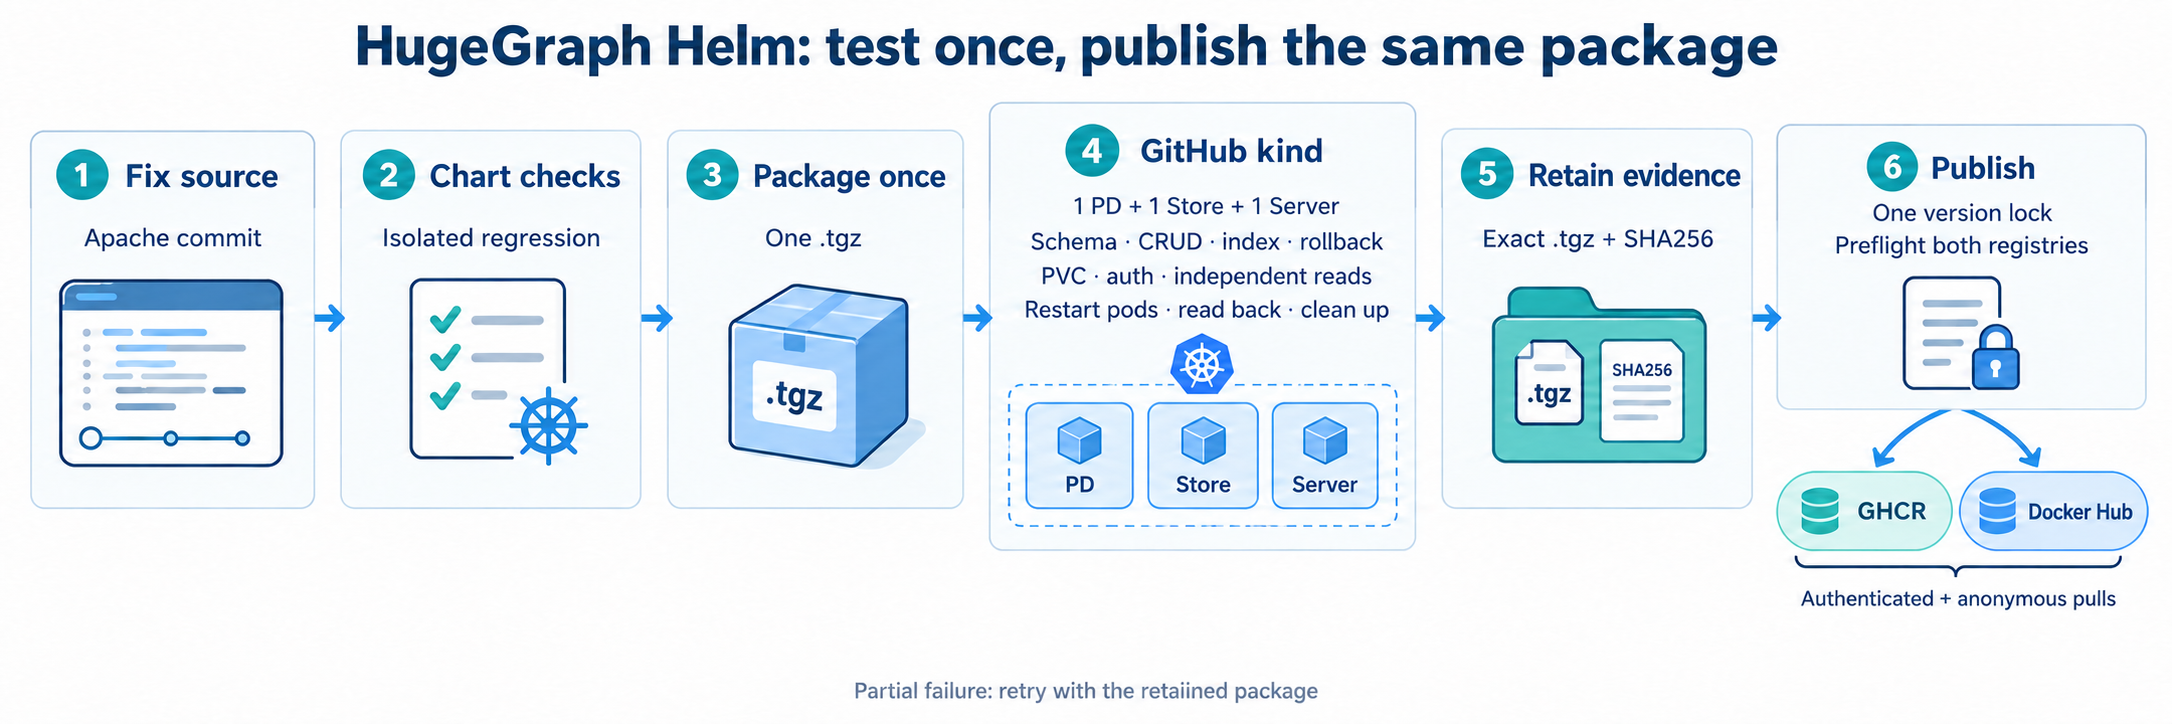
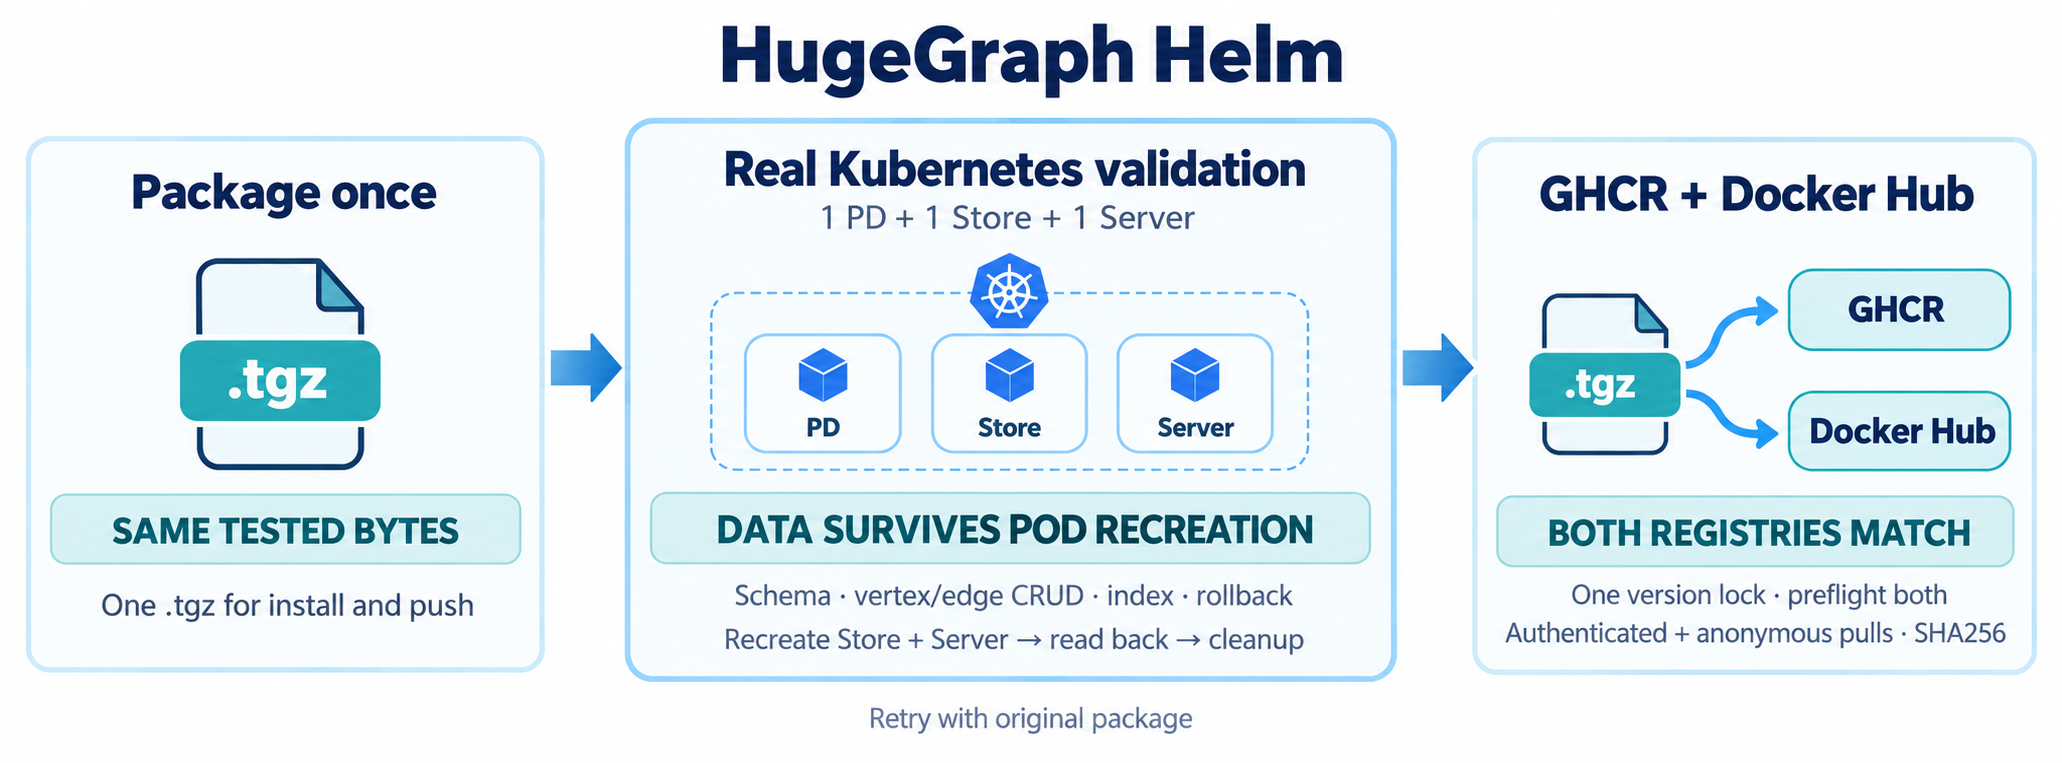
docs(helm): highlight core validation guarantees
- simplify the diagram to package, validate and publish
- emphasize exact artifact reuse and persisted data recovery
- show dual-registry preflight and pull verification

Changed region(s): [[0.0, 0.0304, 0.9932, 0.9116], [0.3104, 0.8508, 0.6828, 0.9724]]

diff --git a/.github/assets/helm-publishing-flow.prompt.md b/.github/assets/helm-publishing-flow.prompt.md
@@ -2,39 +2,53 @@
 
 Generated with the built-in image generation tool. Final asset: `helm-publishing-flow.png`.
 
-## Original prompt
+## Generation prompt
 
 ```text
 Use case: infographic-diagram
-Asset type: a generated illustration embedded in an open-source GitHub README.
-Primary request: Create a crisp, polished horizontal infographic explaining the actual HugeGraph Helm validation and publication pipeline. Wide landscape, about 3:1 aspect ratio, readable when embedded 1100 pixels wide. White or very light neutral background, dark navy typography, restrained teal and blue accents, simple line illustrations of source code, a chart package, Kubernetes pods, an evidence folder and two registry endpoints. Consistent clean spacing and arrows. No brand logos or watermarks.
-Composition: a left-to-right main flow with six numbered cards. Card 4 can be taller with compact test details. Card 6 branches into two equal destination pills but has a shared publisher card above the split. Include only the exact short text specified below, no extra prose.
-Text (verbatim):
-Title: "HugeGraph Helm: test once, publish the same package"
-Card 1 heading: "1  Fix source"
-Card 1 subtext: "Apache commit"
-Card 2 heading: "2  Chart checks"
-Card 2 subtext: "Isolated regression"
-Card 3 heading: "3  Package once"
-Card 3 subtext: "One .tgz"
-Card 4 heading: "4  GitHub kind"
-Card 4 subtext lines: "1 PD + 1 Store + 1 Server" / "Schema · CRUD · index · rollback" / "PVC · auth · independent reads" / "Restart pods · read back · clean up"
-Card 5 heading: "5  Retain evidence"
-Card 5 subtext: "Exact .tgz + SHA256"
-Card 6 heading: "6  Publish"
-Card 6 subtext lines: "One version lock" / "Preflight both registries"
-Destination pill 1: "GHCR"
-Destination pill 2: "Docker Hub"
-Shared text below destination pills: "Authenticated + anonymous pulls"
-Footer small note: "Partial failure: retry with the retained package"
-Accuracy constraints: Show a single immutable .tgz flowing through tests and publishing. Do not suggest high availability, a 3+3+3 topology, automatic rollback, or a shared atomic transaction between registries. The restart applies to Store and Server pods. The six cards must be legible and correctly ordered, with clearly connected arrows. Spell HugeGraph, SHA256 and GHCR exactly.
+Asset type: generated illustration for the HugeGraph open-source GitHub README.
+Primary request: Replace the existing workflow diagram with a much simpler, polished horizontal overview. Only THREE main stages: "Package once" → "Kubernetes validation" → "Publish same package". No source steps, no chart-check steps, no evidence-storage stage. Wide landscape around 2.8:1, white background, navy typography, restrained teal/blue accents. Large readable English text, clean consistent spacing, minimal icons. Central validation stage is largest and is the visual focus.
+Layout: three large cards left to right, connected by clear right-pointing arrows. Left card simple .tgz package illustration. Central card a small Kubernetes-style outline enclosing three pod icons labeled PD, Store, Server, and three compact check lines below. Right card the same .tgz package branching to two equal pill-shaped destinations GHCR and Docker Hub. No logo required. Avoid extra decoration and use fewer icons than the original.
+Text (verbatim, do not invent other labels):
+Title: "HugeGraph Helm"
+Left card heading: "Package once"
+Left card subtext: "One .tgz"
+Center card heading: "Kubernetes validation"
+Center card topology: "1 PD + 1 Store + 1 Server"
+Center check lines:
+"Schema · vertex/edge CRUD · index · rollback"
+"PVC · auth · independent reads"
+"Recreate Store/Server · verify persisted data · cleanup"
+Right card heading: "Publish same package"
+Right destinations: "GHCR" and "Docker Hub"
+Right compact note: "Preflight both · verify pulls"
+Footer optional, if room: "Retry with original package"
+Accuracy: identical package is tested then distributed to both destinations. Do not imply high availability or an atomic transaction across registries. Do not include "Fix source", "Chart checks", or "Retain evidence". No loops or arrows pointing back to package creation. No watermark. All text must be spelled exactly and readable in a GitHub README.
 ```
 
-## Correction prompt
+## Final refinement prompt
 
 ```text
-Use case: precise-object-edit
-Edit target: the supplied HugeGraph Helm pipeline infographic.
-Change only the bottom dashed arrow line and its two arrowheads: remove this entire dashed path, including the arrowhead below "Fix source" and arrowhead below "Docker Hub". Preserve the exact footer text "Partial failure: retry with the retained package" centered underneath as plain text without any arrow or connector. This avoids implying recovery rebuilds the source.
-Keep every other pixel, card, text, icon, color, spacing and main forward arrow unchanged. Do not add any other elements.
+Use case: infographic-diagram
+Edit target: the supplied three-stage HugeGraph Helm infographic. Refine only the labels and balance of supporting text to emphasize THREE proof claims. Preserve its three-card layout, white background, navy/teal/blue palette, package icons, forward arrows, PD/Store/Server icons and GHCR/Docker Hub destination branches. Keep all English text readable, crisp and unclipped. You may increase height slightly if needed but retain wide landscape approximately 2.7:1.
+Replace the current labels with exactly these:
+Overall title: "HugeGraph Helm"
+Left card heading: "Package once"
+Left card proof callout, prominent beneath icon: "SAME TESTED BYTES"
+Left card supporting line: "One .tgz for install and push"
+Center card heading: "Real Kubernetes validation"
+Center topology line: "1 PD + 1 Store + 1 Server"
+Center pod labels stay "PD", "Store", "Server"
+Center proof callout, prominent below the pod diagram: "DATA SURVIVES POD RECREATION"
+Center supporting lines (small but legible):
+"Schema · vertex/edge CRUD · index · rollback"
+"Recreate Store + Server → read back → cleanup"
+Right card heading: "GHCR + Docker Hub"
+Right destinations stay "GHCR" and "Docker Hub"
+Right proof callout, prominent below destination branches: "BOTH REGISTRIES MATCH"
+Right supporting lines:
+"One version lock · preflight both"
+"Authenticated + anonymous pulls · SHA256"
+Footer: "Retry with original package"
+Remove all superseded text, including the old detailed laundry list of tests and the old "Preflight both · verify pulls" line. The key three proof callouts should be visually stronger than supporting lines, while staying inside their card. No other new text. No recovery loops, no arrows back to package creation, no claim of atomic cross-registry transaction, no high-availability implication, no watermark.
 ```
